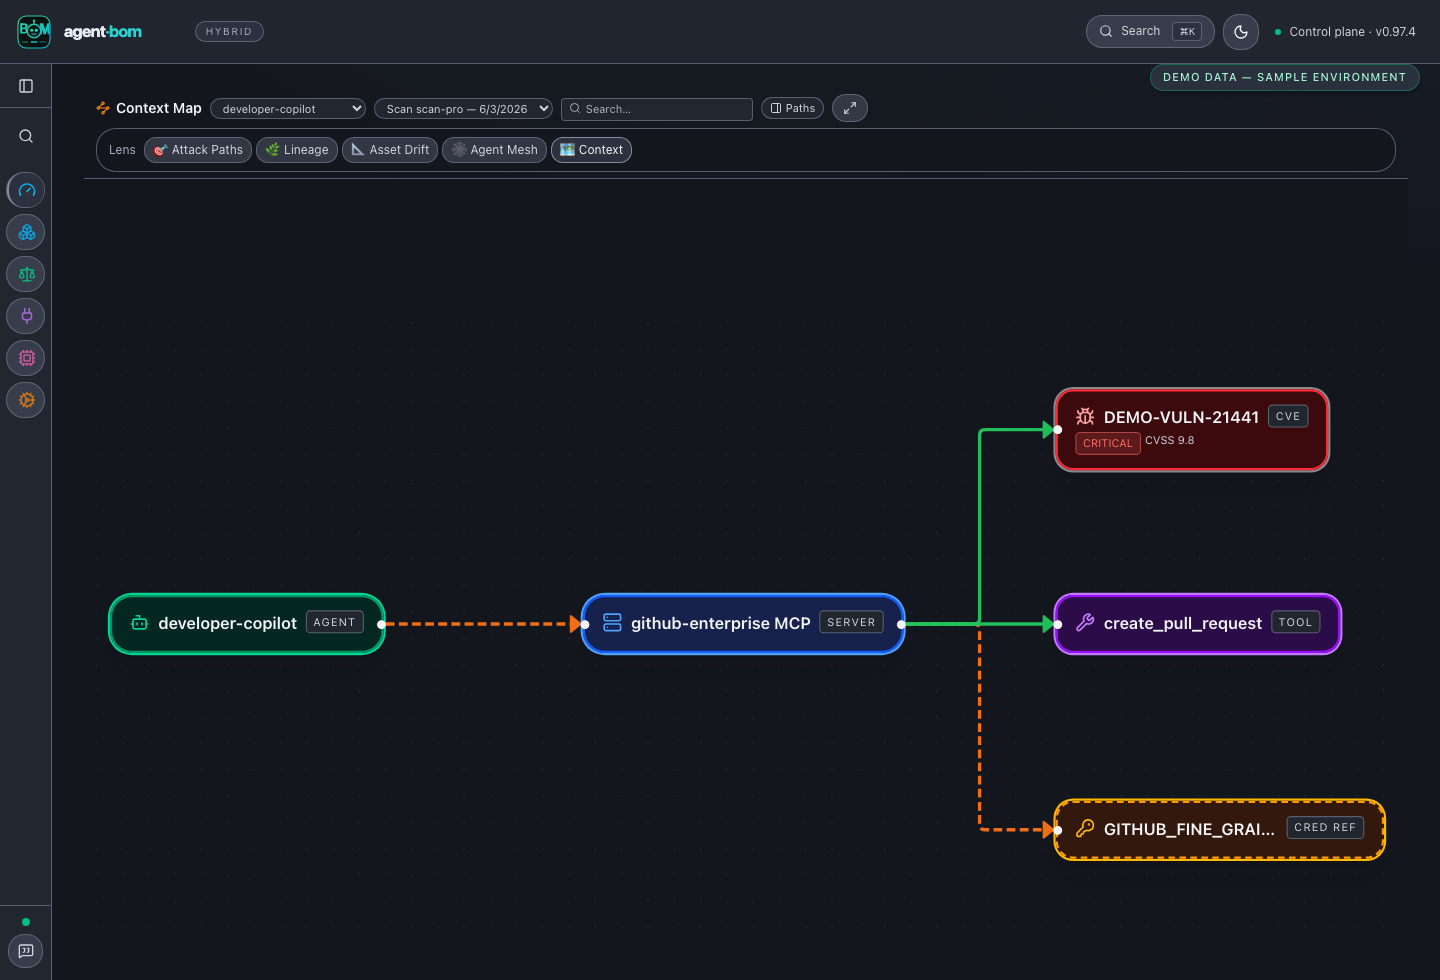
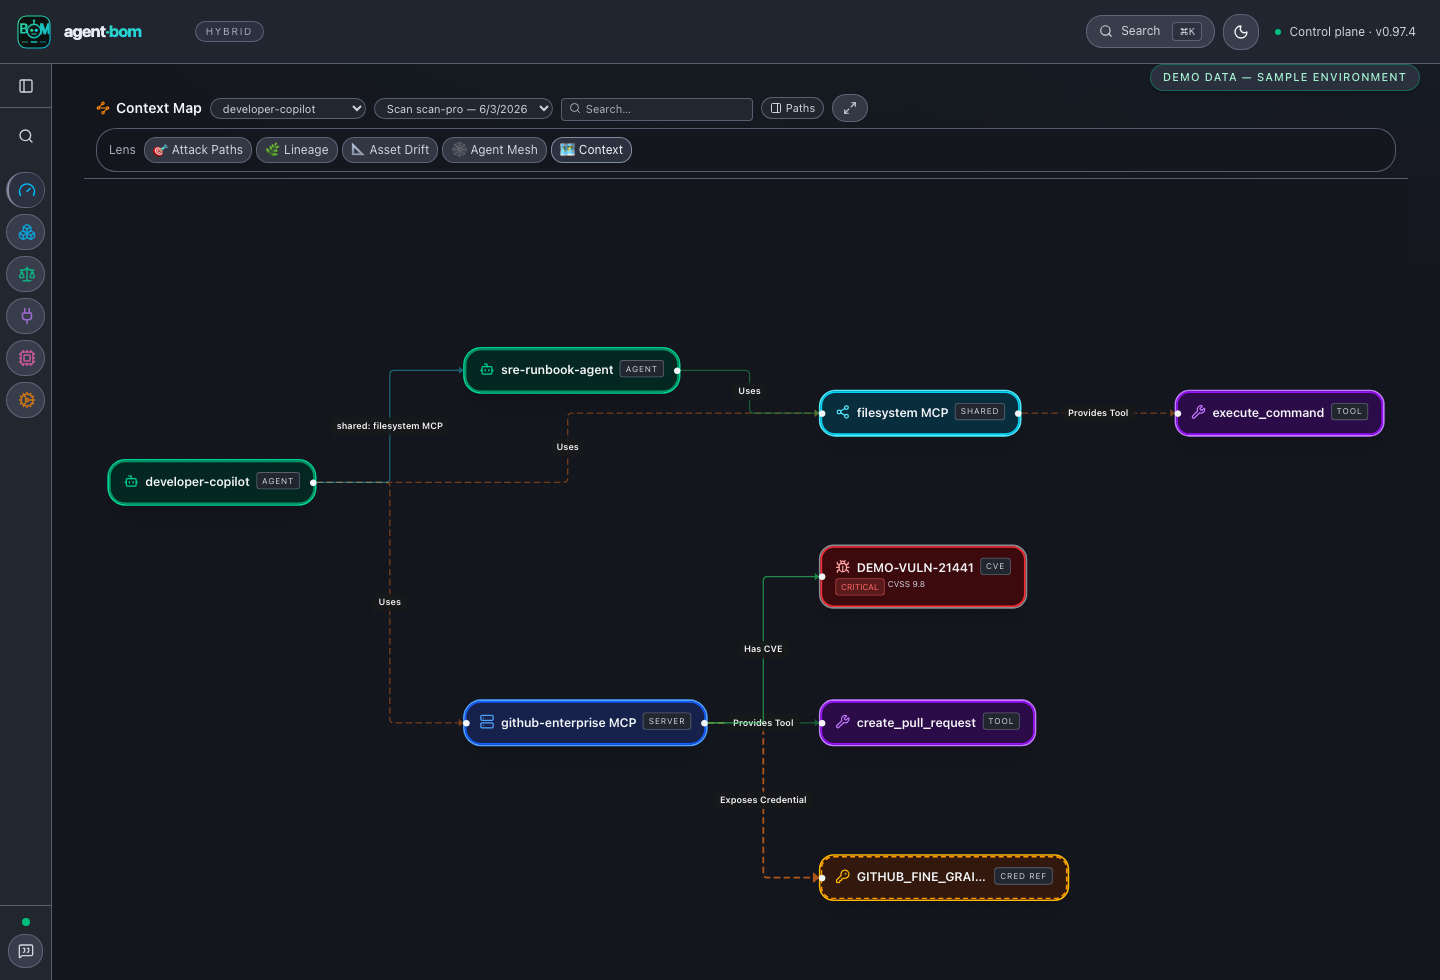
feat(ui): distinct graph proof shots and labeled relationships (#4415)
## Summary
- Label context and mesh React Flow edges from `relationshipLegendItem`
(with shared-server/credential overrides) so green **Uses** edges are
not confused with CVE relationships.
- Distinct capture scopes: mesh scopes two agents on shared filesystem
MCP with path focus off; context capture disables path focus for
tools/creds topology; lineage keeps the `next@` → DEMO-VULN package hop
story.
- README Graph lenses and `docs/CAPTURE.md` rows describe unique proof
intent; refreshed `mesh-live.png` and `context-map-live.png`.

## Test plan
- [x] `cd ui && npm run typecheck`
- [x] `npx vitest run tests/graph-viewport.test.ts
tests/context-graph.test.ts`
- [x] `npm run build`
- [x] `npm run capture:product-proof`

Made with [Cursor](https://cursor.com)

diff --git a/ui/lib/graph-utils.ts b/ui/lib/graph-utils.ts
@@ -376,6 +376,46 @@ export function relationshipLegendItem(relationship: string): LegendItem {
   };
 }
 
+export function relationshipEdgeLabelText(
+  relationship: string,
+  metadata?: Record<string, unknown>,
+): string {
+  if (relationship === "shares_server") {
+    return `shared: ${(metadata?.server as string) ?? ""}`.trim();
+  }
+  if (relationship === "shares_credential" || relationship === "shares_cred") {
+    return `shared: ${(metadata?.credential as string) ?? ""}`.trim();
+  }
+  return relationshipLegendItem(relationship).label;
+}
+
+export function relationshipEdgeLabelPresentation(options?: {
+  captureMode?: boolean;
+}): Pick<
+  import("@xyflow/react").Edge,
+  | "labelShowBg"
+  | "labelBgPadding"
+  | "labelBgBorderRadius"
+  | "labelBgStyle"
+  | "labelStyle"
+> {
+  const captureMode = options?.captureMode ?? false;
+  return {
+    labelShowBg: true,
+    labelBgPadding: [8, 4],
+    labelBgBorderRadius: 6,
+    labelBgStyle: {
+      fill: captureMode ? "#0a0a0a" : "rgba(24,24,27,0.92)",
+      fillOpacity: 0.94,
+    },
+    labelStyle: {
+      fill: "#f4f4f5",
+      fontSize: 11,
+      fontWeight: 600,
+    },
+  };
+}
+
 const RELATIONSHIP_LEGEND_ITEMS: Record<
   (typeof RELATIONSHIP_LEGEND_ORDER)[number],
   LegendItem

diff --git a/ui/tests/context-graph.test.ts b/ui/tests/context-graph.test.ts
@@ -2,6 +2,7 @@ import { describe, expect, it } from "vitest";
 
 import { buildContextFlowGraph, displayContextDescription, topLateralPathForAgent, type ContextGraphData, type LateralPath } from "@/lib/context-graph";
 import { RELATIONSHIP_COLOR_MAP, RelationshipType } from "@/lib/graph-schema";
+import { relationshipEdgeLabelText } from "@/lib/graph-utils";
 
 describe("buildContextFlowGraph", () => {
   it("prefers canonical entity and relationship fields when present", () => {
@@ -125,4 +126,40 @@ describe("buildContextFlowGraph", () => {
       "vuln:critical",
     ]);
   });
+  it("labels edges with human relationship names for readability", () => {
+    const data: ContextGraphData = {
+      nodes: [
+        { id: "agent:desktop", kind: "agent", label: "desktop", metadata: {} },
+        { id: "server:chat", kind: "server", label: "chat", metadata: {} },
+      ],
+      edges: [
+        {
+          source: "agent:desktop",
+          target: "server:chat",
+          kind: "uses",
+          relationship: "uses",
+          weight: 1,
+          metadata: {},
+        },
+      ],
+      lateral_paths: [],
+      interaction_risks: [],
+      stats: {
+        total_nodes: 2,
+        total_edges: 1,
+        agent_count: 1,
+        shared_server_count: 0,
+        shared_credential_count: 0,
+        lateral_path_count: 0,
+        max_lateral_depth: 0,
+        highest_path_risk: 0,
+        interaction_risk_count: 0,
+      },
+    };
+
+    const graph = buildContextFlowGraph(data);
+    expect(graph.edges[0]?.label).toBe(relationshipEdgeLabelText("uses"));
+    expect(graph.edges[0]?.labelShowBg).toBe(true);
+  });
+
 });

diff --git a/ui/app/mesh/page.tsx b/ui/app/mesh/page.tsx
@@ -214,6 +214,16 @@ export default function MeshPage() {
   const captureMode = useCaptureMode();
 
   useEffect(() => {
+    if (!captureMode) return;
+    setPathFocusEnabled(false);
+    setNodeFilter((current) => ({
+      ...current,
+      tools: true,
+      credentials: true,
+    }));
+    setVulnerableOnly(false);
+  }, [captureMode]);
+  useEffect(() => {
     api
       .listJobs()
       .then((res) => {
@@ -258,6 +268,18 @@ export default function MeshPage() {
   }, [selectedJob]);
 
   const activeResult = useMemo(() => activeJob?.result ?? null, [activeJob]);
+
+  useEffect(() => {
+    if (!captureMode || !activeResult) return;
+    const focusNames = new Set(["developer-copilot", "sre-runbook-agent"]);
+    const keys = activeResult.agents
+      .filter((agent) => focusNames.has(agent.name))
+      .map((agent) => getMeshAgentKey(agent));
+    if (keys.length > 0) {
+      setSelectedAgents(keys);
+    }
+  }, [activeResult, captureMode]);
+
 
   const agentOptions = useMemo(() => {
     if (!activeResult) return [];
@@ -510,7 +532,7 @@ export default function MeshPage() {
         <div className="border-b border-[var(--border-subtle)] px-5 py-2.5">
           <h1 className="text-base font-semibold text-foreground">Agent Mesh</h1>
           <p className="text-sm text-[var(--text-secondary)]">
-            agent → MCP server → package → tool → CVE
+            Shared MCP servers across developer-copilot and sre-runbook-agent — tools, credentials, and labeled relationships
           </p>
         </div>
       ) : (

diff --git a/ui/lib/mesh-graph.ts b/ui/lib/mesh-graph.ts
@@ -14,6 +14,23 @@ import {
 } from "@/lib/exposure-path";
 import { severityAtOrAbove, severityRank } from "@/lib/severity";
 import { severityHex } from "@/lib/theme-colors";
+import {
+  relationshipEdgeLabelPresentation,
+  relationshipEdgeLabelText,
+} from "@/lib/graph-utils";
+
+
+function meshEdgeWithRelationshipLabel(edge: Edge): Edge {
+  const relationship =
+    typeof edge.data?.relationship === "string"
+      ? edge.data.relationship
+      : "uses";
+  return {
+    ...edge,
+    label: relationshipEdgeLabelText(relationship),
+    ...relationshipEdgeLabelPresentation(),
+  };
+}
 
 // ─── Types ──────────────────────────────────────────────────────────────────
 
@@ -915,7 +932,7 @@ export function buildMeshGraph(
     topExposurePath,
   };
 
-  return { nodes, edges, stats };
+  return { nodes, edges: edges.map(meshEdgeWithRelationshipLabel), stats };
 }
 
 // ─── Hover Highlighting ─────────────────────────────────────────────────────

diff --git a/ui/lib/context-graph.ts b/ui/lib/context-graph.ts
@@ -15,6 +15,10 @@ import {
   reachStrokeColor,
 } from "@/lib/effective-reach";
 import { RELATIONSHIP_COLOR_MAP } from "@/lib/graph-schema";
+import {
+  relationshipEdgeLabelPresentation,
+  relationshipEdgeLabelText,
+} from "@/lib/graph-utils";
 
 // ─── Types (mirror Python context_graph.to_serializable) ────────────────────
 
@@ -300,7 +304,7 @@ export function buildContextFlowGraph(
         type: "smoothstep",
         data: {
           relationship,
-          relationshipLabel: relationship.replace(/_/g, " "),
+          relationshipLabel: relationshipEdgeLabelText(relationship, e.metadata),
           evidenceMode: isOnPath
             ? "selected_path"
             : relationship.includes("runtime")
@@ -323,14 +327,8 @@ export function buildContextFlowGraph(
           width: 12,
           height: 12,
         },
-        label:
-          relationship === "shares_server"
-            ? `shared: ${(e.metadata?.server as string) ?? ""}`
-            : relationship === "shares_credential" ||
-                relationship === "shares_cred"
-              ? `shared: ${(e.metadata?.credential as string) ?? ""}`
-              : undefined,
-        labelStyle: { fontSize: 9, fill: "#71717a" },
+        label: relationshipEdgeLabelText(relationship, e.metadata),
+        ...relationshipEdgeLabelPresentation(),
       };
     });
 

diff --git a/ui/app/context/page.tsx b/ui/app/context/page.tsx
@@ -299,6 +299,12 @@ export default function ContextPage() {
   const { counts } = useDeploymentContext();
   const captureMode = useCaptureMode();
 
+  useEffect(() => {
+    if (captureMode) {
+      setPathFocusEnabled(false);
+    }
+  }, [captureMode]);
+
   // Load completed jobs
   useEffect(() => {
     api

diff --git a/README.md b/README.md
@@ -84,16 +84,19 @@ boundary.
 
 ## Graph lenses
 
-Shipped graph surfaces for lineage, agent mesh, and filtered attack-path
-drilldowns — not a dense dashboard collage.
+Three graph lenses tell different stories: package-level lineage, multi-agent
+mesh overlap, and lateral context — not three copies of the same CVE chain.
 
-| Lineage (filtered path) | Agent mesh |
+| Lineage (package hop) | Agent mesh (shared MCP) |
 |:---:|:---:|
-| <img src="https://raw.githubusercontent.com/msaad00/agent-bom/main/docs/images/lineage-graph-live.png" alt="Filtered attack-path lineage across agent, MCP, package, and finding nodes" width="430" /> | <img src="https://raw.githubusercontent.com/msaad00/agent-bom/main/docs/images/mesh-live.png" alt="Focused agent mesh across agent, MCP server, package, and finding" width="430" /> |
+| <img src="https://raw.githubusercontent.com/msaad00/agent-bom/main/docs/images/lineage-graph-live.png" alt="Lineage graph focused on developer-copilot, GitHub MCP, next package version, and DEMO-VULN finding with labeled edges" width="430" /> | <img src="https://raw.githubusercontent.com/msaad00/agent-bom/main/docs/images/mesh-live.png" alt="Agent mesh showing developer-copilot and sre-runbook-agent converging on shared filesystem MCP with relationship labels" width="430" /> |
+| *Investigation drilldown: agent → MCP → `next@` → critical finding.* | *Two agents, one shared server — tools and credentials in the same frame.* |
 
 <p align="center">
-  <img src="https://raw.githubusercontent.com/msaad00/agent-bom/main/docs/images/context-map-live.png" alt="Agent-scoped context map with reachable MCP servers and lateral movement" width="820" />
+  <img src="https://raw.githubusercontent.com/msaad00/agent-bom/main/docs/images/context-map-live.png" alt="Context map with path focus off: repo-write tool, GitHub credential, MCP servers, and agent lateral links" width="820" />
 </p>
+
+<p align="center"><em>Context map: neighborhood topology (tools, creds, servers) — not the same hero CVE strip as lineage.</em></p>
 
 <details>
 <summary><b>Investigation capture</b> — prioritized path with export/handoff chrome</summary>

diff --git a/docs/CAPTURE.md b/docs/CAPTURE.md
@@ -62,11 +62,11 @@ deterministic public screenshot set.
 | `dashboard-paths-live.png` | `/?capture=1` (Overview) | Unique exposure paths, recent scans, activity | Lower overview frame |
 | `cloud-accounts-live.png` | `/connections?capture=1` | Connections header and provider gallery across cloud, code, AI, and data | Onboarding surface |
 | `new-scan-live.png` | `/scan?capture=1` | New Scan modes — connected account, ad-hoc, public repo URL | Scan scope clarity |
-| `mesh-live.png` | `/mesh?capture=1` | Focused active agent → MCP server → package → finding path | Public README, Docker Hub, and marketplace surfaces should show one readable graph proof, not duplicate dark/light theme captures |
+| `mesh-live.png` | `/mesh?capture=1` | Capture-mode scopes developer-copilot + sre-runbook-agent on shared filesystem MCP with path focus off and labeled edges | README mesh proof must differ from lineage: multi-agent shared server, not the same single CVE chain |
 | `gateway-policies-live.png` | `/runtime?tab=gateway&capture=1` | KPI rollup, enforcement posture, and recent tool-call evidence | Proves runtime gateway observability without a live proxy session during capture |
 | `security-graph-live.png` | `/security-graph?capture=1` | Capture a prioritized attack path with graph evidence export and remediation handoff | Shows the operator workflow before raw topology so the public image is readable and action oriented |
-| `lineage-graph-live.png` | `/graph?capture=1` | Focused filtered attack path across agent, MCP server, package, and finding nodes | Shows the investigation drilldown without whole-tenant edge spaghetti |
-| `context-map-live.png` | `/context?capture=1` | Capture one agent-scoped context map with reachable MCP servers and the lateral movement side panel | Shows a non-CVE topology view so README proof is not only package-to-finding blast radius |
+| `lineage-graph-live.png` | `/graph?capture=1` | Scoped developer-copilot attack path through GitHub MCP, explicit `next@` package node, and DEMO-VULN | Keeps the package-hop lineage story; relationship labels disambiguate Uses vs Has CVE |
+| `context-map-live.png` | `/context?capture=1` | developer-copilot scope with capture path focus off — create_pull_request, GITHUB credential, MCP servers | Proof text must not require DEMO-VULN; lateral tools/creds topology is the hero |
 | `fleet-state-live.png` | `/fleet?capture=1` | Expanded quarantined agent row with owner, environment, and enforcement state | Shows environment and lifecycle state as control-plane evidence instead of implying the local scan alone owns review state |
 | `identity-audit-live.png` | `/audit?capture=1` | Identity-resource posture summary with auth, key, and tenant-quota panels | Shows the visible IAM posture frame from the deterministic capture fixture |
 | `dependency-map-live.png` | `/findings?capture=1` | Capture findings queue with seeded package and CVE evidence | Proves package/CVE posture from the same seeded demo estate |